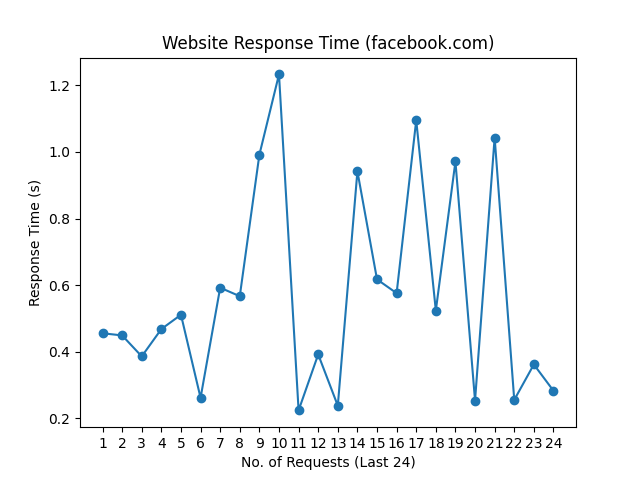
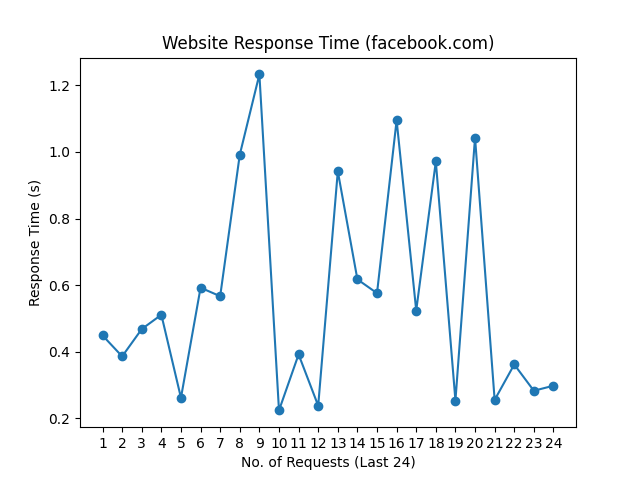
update README.md, history and graph

Changed region(s): [[0.1562, 0.125, 0.875, 0.875]]

diff --git a/README.md b/README.md
@@ -1,10 +1,10 @@
 # Web Monitoring
 
-Last Checked: 22/05/2024 08:15
+Last Checked: 23/05/2024 08:16
 
 | Website | Response Time (s) | Status | Avg Uptime (%) |
 |---------|-------------------|--------|----------------|
 | www.thiswebsiteisdown.net | 0 <br> <img src="graph/thiswebsiteisdown.net.png" alt="Graph" width="200" height="200">  | ❌ Down | 0.00 |
-| www.netflix.com | 0.429057 <br> <img src="graph/netflix.com.png" alt="Graph" width="200" height="200">  | ✅ Up | 100.00 |
-| www.google.com | 0.166229 <br> <img src="graph/google.com.png" alt="Graph" width="200" height="200">  | ✅ Up | 100.00 |
-| www.facebook.com | 0.282961 <br> <img src="graph/facebook.com.png" alt="Graph" width="200" height="200">  | ✅ Up | 100.00 |
+| www.netflix.com | 0.403523 <br> <img src="graph/netflix.com.png" alt="Graph" width="200" height="200">  | ✅ Up | 100.00 |
+| www.google.com | 0.388677 <br> <img src="graph/google.com.png" alt="Graph" width="200" height="200">  | ✅ Up | 100.00 |
+| www.facebook.com | 0.298048 <br> <img src="graph/facebook.com.png" alt="Graph" width="200" height="200">  | ✅ Up | 100.00 |
